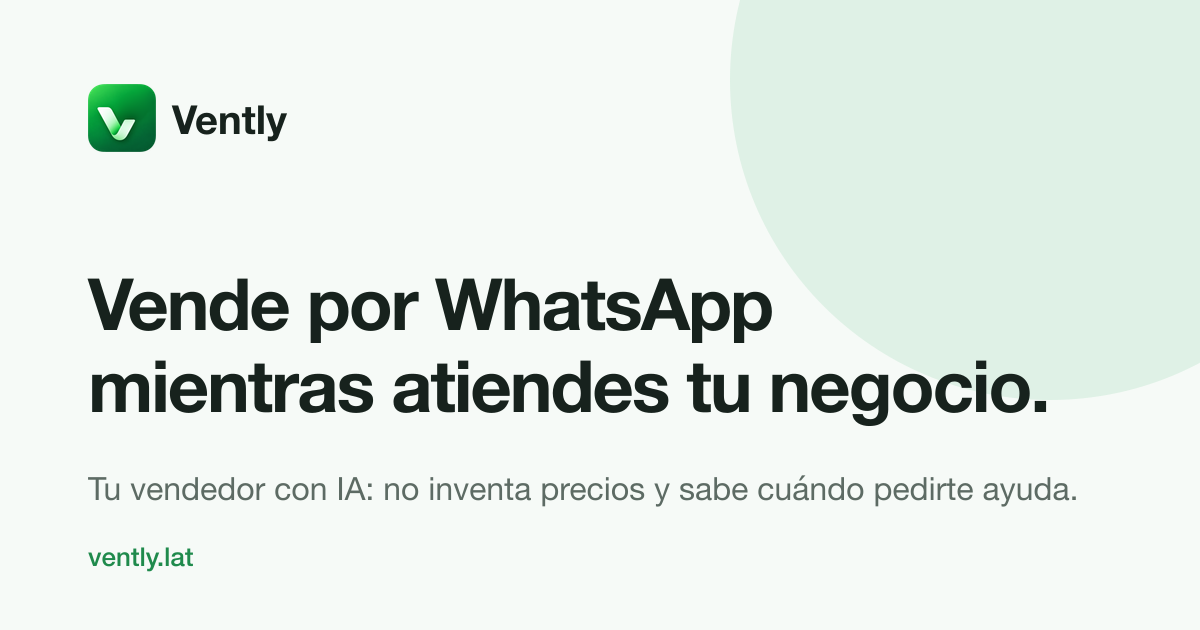
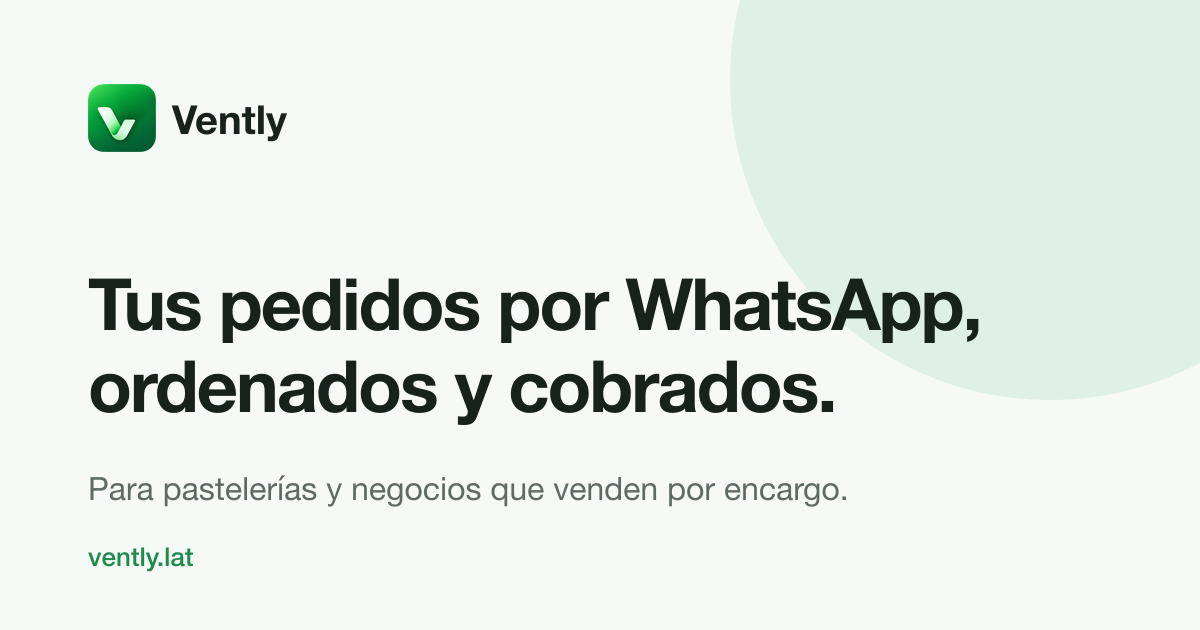
Reposition landing around the business model
Pastry and made-to-order businesses first: 'Tus pedidos por WhatsApp,
ordenados y cobrados', niche demo (pastelería, florería, desayunos),
pains of order/payment chaos with sources, a 'solo con WhatsApp
Business vs Vently' comparison, founder price section (S/ 49, 20
seats) and contact as the main call to action.

Changed region(s): [[0.0617, 0.4222, 0.8325, 0.5429], [0.0617, 0.573, 0.8942, 0.6937], [0.0617, 0.754, 0.8942, 0.8143]]

diff --git a/src/site.ts b/src/site.ts
@@ -1,14 +1,24 @@
+// Vently's own sales WhatsApp, digits only with country code (e.g. '51987654321').
+// While empty, the contact buttons fall back to email.
+const whatsapp = '';
+const contactMessage = 'Hola, quiero ver Vently para mi negocio y reservar el precio fundador.';
+
 export const site = {
   name: 'Vently',
   url: 'https://vently.lat',
   appUrl: 'https://app.vently.lat',
   registerUrl: 'https://app.vently.lat/register',
   loginUrl: 'https://app.vently.lat/login',
-  tagline: 'Tu vendedor con IA en WhatsApp',
+  tagline: 'Tus pedidos por WhatsApp, ordenados y cobrados',
   description:
-    'Vently atiende a tus clientes por WhatsApp con inteligencia artificial: responde, toma pedidos y cierra ventas usando solo la información de tu negocio. Nunca inventa precios y te avisa cuando necesita ayuda.',
+    'Vently responde a tus clientes por WhatsApp con tus precios, toma el pedido completo y te muestra qué entregar y quién te debe. Hecho para pastelerías y negocios que venden por encargo en Perú.',
   locale: 'es_PE',
   lang: 'es',
+  contactUrl: whatsapp
+    ? `https://wa.me/${whatsapp}?text=${encodeURIComponent(contactMessage)}`
+    : `mailto:inversotech.pe@gmail.com?subject=${encodeURIComponent('Quiero ver Vently')}&body=${encodeURIComponent(contactMessage)}`,
+  contactLabel: whatsapp ? 'Escríbenos por WhatsApp' : 'Escríbenos',
+  founder: { price: 49, seats: 20 },
   company: {
     legalName: 'Inverso Technologies E.I.R.L.',
     ruc: '20615027058',
